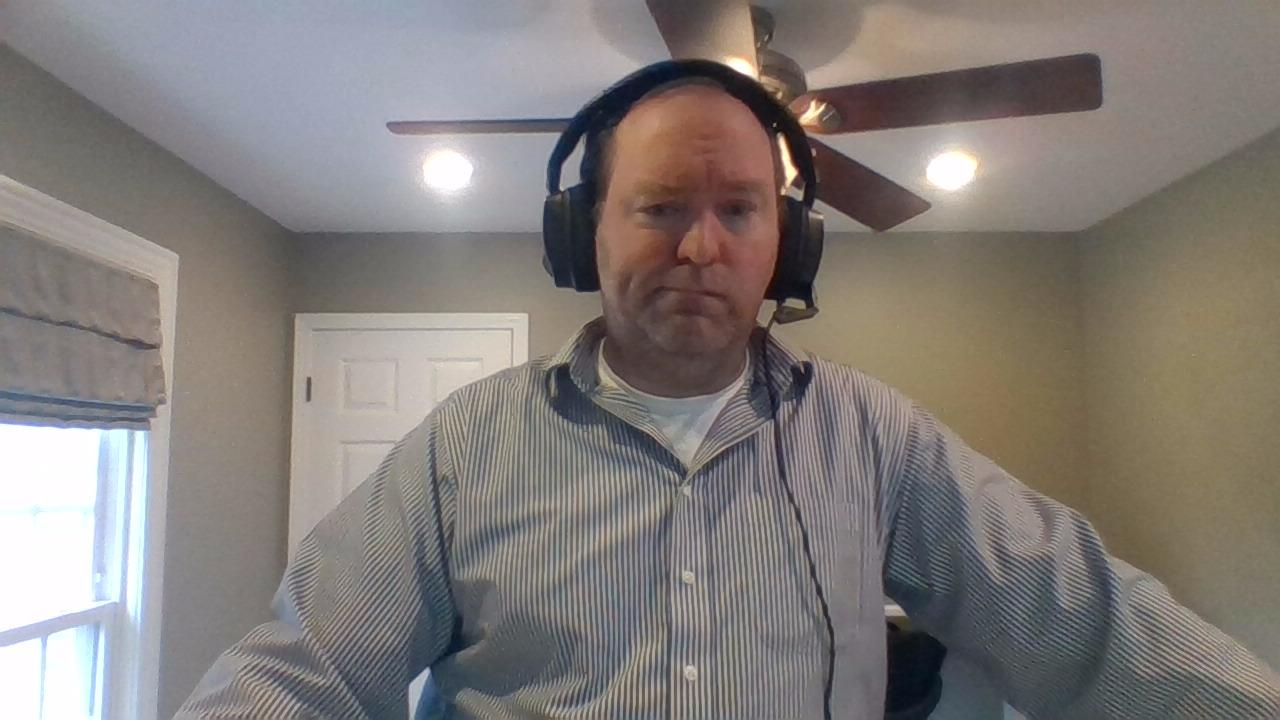
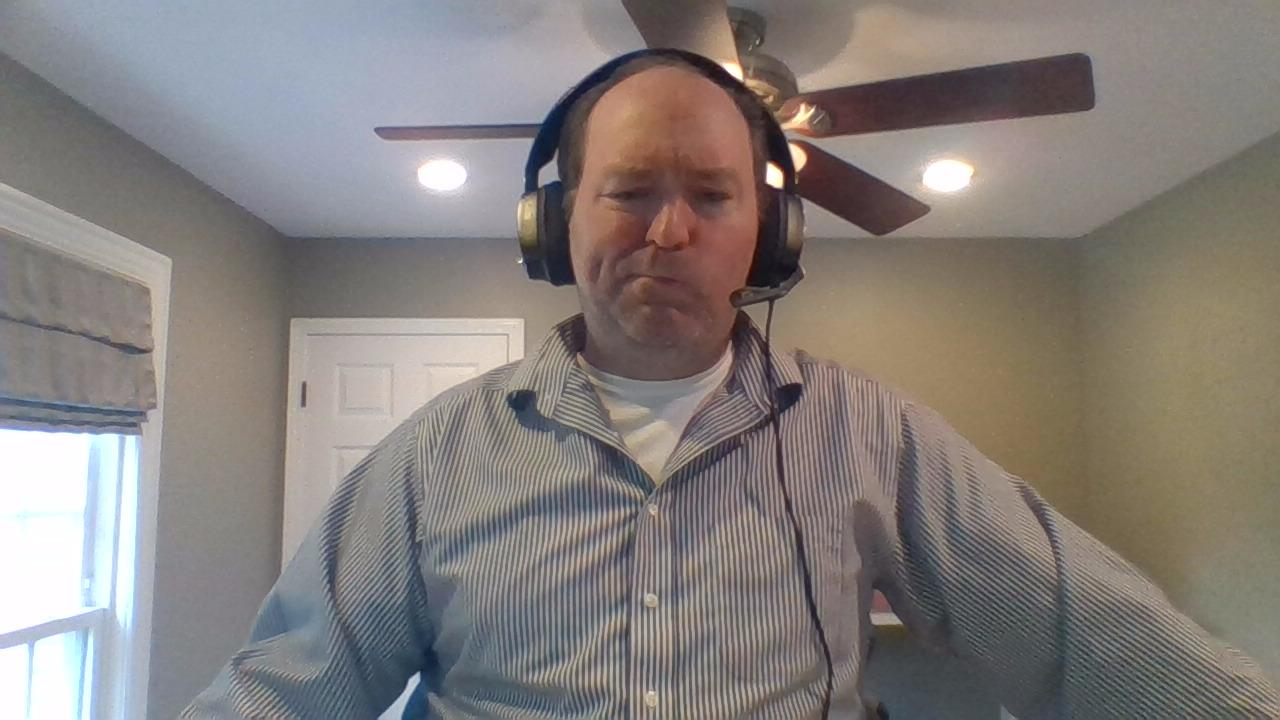
updated the images to be closer together

diff --git a/index.html b/index.html
@@ -18,7 +18,7 @@
 				width: 100%; height: 100%;
 				background-repeat: no-repeat;
 			    background-size: cover;
-				background-image: url(img/zoombot-wait1.gif);
+				background-image: url(img/zoombot-wait3.gif);
 				z-index: 1;
 			}
 
@@ -259,8 +259,7 @@
 
 					function showWaitingReaction(i)
 					{
-						//setTimeout(function(){$('#pics').css('background-image', 'url(img/zoombot-smile.jpg)');}, reactionTime*i++);
-						setTimeout(function(){$('#pics').css('background-image', 'url(img/zoombot-wait1.gif)');}, reactionTime*i++);
+						setTimeout(function(){$('#pics').css('background-image', 'url(img/zoombot-wait3.gif)');}, reactionTime*i++);
 						return i;
 					}
 
@@ -268,9 +267,9 @@
 						let j = 0;
 						for (j = 0; j < numberOfTimes; j++) {
   							
-		 					setTimeout(function(){$('#pics').css('background-image', 'url(img/zoombot-open1.jpg)');}, reactionTime*i++);
-							setTimeout(function(){$('#pics').css('background-image', 'url(img/zoombot-open2.jpg)');}, reactionTime*i++);
-							setTimeout(function(){$('#pics').css('background-image', 'url(img/zoombot-open3.jpg)');}, reactionTime*i++);
+		 					setTimeout(function(){$('#pics').css('background-image', 'url(img/zoombot-open-a.jpg)');}, reactionTime*i++);
+							setTimeout(function(){$('#pics').css('background-image', 'url(img/zoombot-open-b.jpg)');}, reactionTime*i++);
+							setTimeout(function(){$('#pics').css('background-image', 'url(img/zoombot-open-c.jpg)');}, reactionTime*i++);
 
 						}
 
@@ -280,7 +279,7 @@
 
 
 					function showShortReaction(i) {
-						setTimeout(function(){$('#pics').css('background-image', 'url(img/zoombot-open1.jpg)');}, reactionTime*i++);
+						setTimeout(function(){$('#pics').css('background-image', 'url(img/zoombot-open-a.jpg)');}, reactionTime*i++);
 						i = showWaitingReaction(i);
 						return i;
 					}
